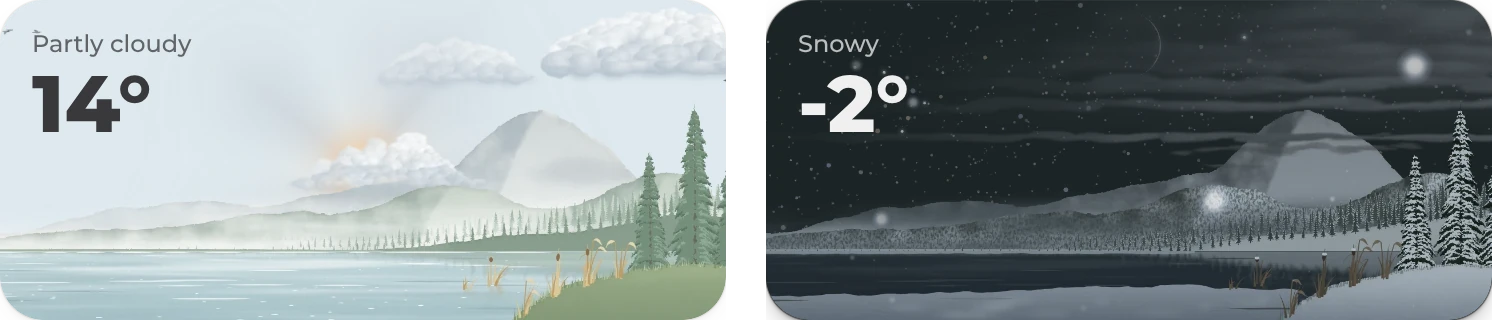
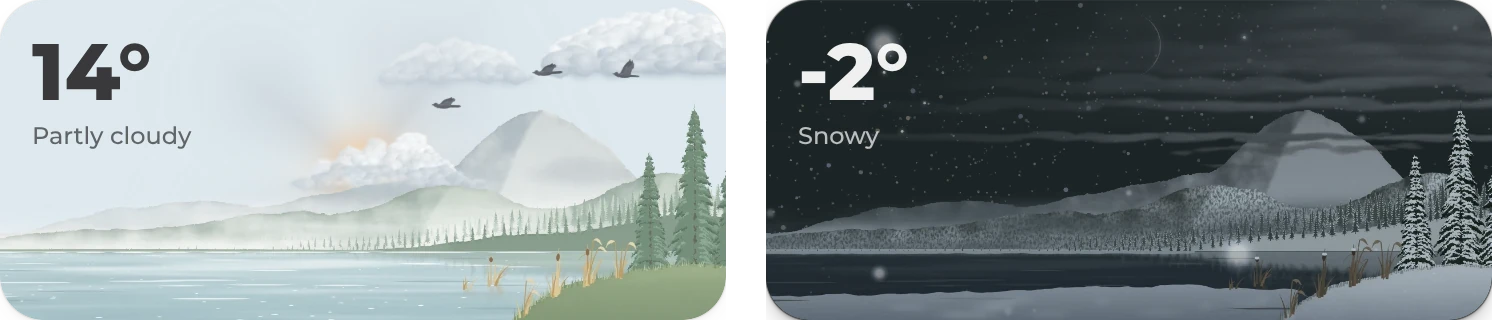
Temperature first again in Diorama, a roomier top and six fixed days in Classic, and a lighter temperature in Home

diff --git a/src/layout-presets.js b/src/layout-presets.js
@@ -42,16 +42,16 @@ const DIORAMA_CONFIG = Object.freeze({
             name: 'Now',
             buttons: [
                 {
-                    name: 'Condition and temperature',
+                    name: 'Temperature and condition',
                     entity: PRESET_ENTITY_TOKEN,
                     attribute: 'temperature',
                     style: 'vertical',
                     align: 'start',
-                    inner_gap: '4px',
+                    inner_gap: '6px',
                     background: false,
                     elements: [
-                        text({ entity: PRESET_ENTITY_TOKEN, size: '12px', weight: '500', overflow: 'wrap' }),
-                        text({ size: '40px', weight: '800', precision: 0, format: '\u00b0' })
+                        text({ size: '40px', weight: '800', precision: 0, format: '\u00b0' }),
+                        text({ entity: PRESET_ENTITY_TOKEN, size: '12px', weight: '500', overflow: 'wrap' })
                     ]
                 }
             ]
@@ -106,7 +106,7 @@ const CLASSIC_CONFIG = Object.freeze({
     color_mode: 'dark',
     sun_size: 56,
     moon_size: 56,
-    sun_moon_y: '110px 34px',
+    sun_moon_y: '111px 34px',
     cloud_effects: false,
     mist_effects: true,
     bird_effects: false,
@@ -132,7 +132,7 @@ const CLASSIC_CONFIG = Object.freeze({
         {
             name: 'Today',
             gap: '12px',
-            padding: '0 4px',
+            padding: '4px 8px 0',
             buttons: [
                 {
                     name: 'Day',
@@ -144,7 +144,7 @@ const CLASSIC_CONFIG = Object.freeze({
                     background: false,
                     elements: [
                         text({ attribute: 'datetime', format: '%A', size: '20px', weight: '600', color: WHITE }),
-                        text({ attribute: 'datetime', format: '%-d %B', size: '14px', weight: '500', color: WHITE_72 })
+                        text({ attribute: 'datetime', format: '%-d. %B', size: '14px', weight: '500', color: WHITE_72 })
                     ]
                 },
                 {
@@ -161,7 +161,7 @@ const CLASSIC_CONFIG = Object.freeze({
         {
             name: 'Now',
             custom_width: 'auto',
-            padding: '0 4px 2.5px',
+            padding: '4px 8px 2.5px',
             buttons: [
                 {
                     name: 'Temperature and condition',
@@ -181,11 +181,8 @@ const CLASSIC_CONFIG = Object.freeze({
         {
             name: 'Forecast',
             custom_width: '100%',
-            layout: 'horizontal-scroll',
-            scroll_count: 6,
-            scroll_fade: true,
-            scroll_fade_size: '40px',
-            justify_content: 'center',
+            layout: 'grid',
+            columns: 6,
             margin: '20px 0 0',
             padding: '4px',
             gap: '0',
@@ -198,7 +195,7 @@ const CLASSIC_CONFIG = Object.freeze({
             button_gap: '5px',
             button_padding: '14px 0',
             align: 'center',
-            buttons: [1, 2, 3, 4, 5, 6, 7, 8, 9, 10].map(classicDay)
+            buttons: [1, 2, 3, 4, 5, 6].map(classicDay)
         }
     ],
     grid_options: {
@@ -449,7 +446,7 @@ const HOME_CONFIG = Object.freeze({
                     entity: PRESET_ENTITY_TOKEN,
                     attribute: 'temperature',
                     style: 'split',
-                    elements: [homeTemp('clamp(40px, 17cqw, 52px)', '800'), homeLabel({ entity: PRESET_ENTITY_TOKEN, overflow: 'wrap' })]
+                    elements: [homeTemp('clamp(40px, 17cqw, 52px)', '700'), homeLabel({ entity: PRESET_ENTITY_TOKEN, overflow: 'wrap' })]
                 },
                 room('Living'),
                 room('Office'),

diff --git a/dist/chunk-G774F73X.js b/dist/chunk-G774F73X.js
@@ -40,16 +40,16 @@ var DIORAMA_CONFIG = Object.freeze({
       name: "Now",
       buttons: [
         {
-          name: "Condition and temperature",
+          name: "Temperature and condition",
           entity: PRESET_ENTITY_TOKEN,
           attribute: "temperature",
           style: "vertical",
           align: "start",
-          inner_gap: "4px",
+          inner_gap: "6px",
           background: false,
           elements: [
-            text({ entity: PRESET_ENTITY_TOKEN, size: "12px", weight: "500", overflow: "wrap" }),
-            text({ size: "40px", weight: "800", precision: 0, format: "\xB0" })
+            text({ size: "40px", weight: "800", precision: 0, format: "\xB0" }),
+            text({ entity: PRESET_ENTITY_TOKEN, size: "12px", weight: "500", overflow: "wrap" })
           ]
         }
       ]
@@ -99,7 +99,7 @@ var CLASSIC_CONFIG = Object.freeze({
   color_mode: "dark",
   sun_size: 56,
   moon_size: 56,
-  sun_moon_y: "110px 34px",
+  sun_moon_y: "111px 34px",
   cloud_effects: false,
   mist_effects: true,
   bird_effects: false,
@@ -125,7 +125,7 @@ var CLASSIC_CONFIG = Object.freeze({
     {
       name: "Today",
       gap: "12px",
-      padding: "0 4px",
+      padding: "4px 8px 0",
       buttons: [
         {
           name: "Day",
@@ -137,7 +137,7 @@ var CLASSIC_CONFIG = Object.freeze({
           background: false,
           elements: [
             text({ attribute: "datetime", format: "%A", size: "20px", weight: "600", color: WHITE }),
-            text({ attribute: "datetime", format: "%-d %B", size: "14px", weight: "500", color: WHITE_72 })
+            text({ attribute: "datetime", format: "%-d. %B", size: "14px", weight: "500", color: WHITE_72 })
           ]
         },
         {
@@ -154,7 +154,7 @@ var CLASSIC_CONFIG = Object.freeze({
     {
       name: "Now",
       custom_width: "auto",
-      padding: "0 4px 2.5px",
+      padding: "4px 8px 2.5px",
       buttons: [
         {
           name: "Temperature and condition",
@@ -174,11 +174,8 @@ var CLASSIC_CONFIG = Object.freeze({
     {
       name: "Forecast",
       custom_width: "100%",
-      layout: "horizontal-scroll",
-      scroll_count: 6,
-      scroll_fade: true,
-      scroll_fade_size: "40px",
-      justify_content: "center",
+      layout: "grid",
+      columns: 6,
       margin: "20px 0 0",
       padding: "4px",
       gap: "0",
@@ -191,7 +188,7 @@ var CLASSIC_CONFIG = Object.freeze({
       button_gap: "5px",
       button_padding: "14px 0",
       align: "center",
-      buttons: [1, 2, 3, 4, 5, 6, 7, 8, 9, 10].map(classicDay)
+      buttons: [1, 2, 3, 4, 5, 6].map(classicDay)
     }
   ],
   grid_options: {
@@ -428,7 +425,7 @@ var HOME_CONFIG = Object.freeze({
           entity: PRESET_ENTITY_TOKEN,
           attribute: "temperature",
           style: "split",
-          elements: [homeTemp("clamp(40px, 17cqw, 52px)", "800"), homeLabel({ entity: PRESET_ENTITY_TOKEN, overflow: "wrap" })]
+          elements: [homeTemp("clamp(40px, 17cqw, 52px)", "700"), homeLabel({ entity: PRESET_ENTITY_TOKEN, overflow: "wrap" })]
         },
         room("Living"),
         room("Office"),

diff --git a/dist/origami-weather.js b/dist/origami-weather.js
@@ -2281,12 +2281,12 @@ var WeatherCard = class _WeatherCard extends HTMLElement {
   }
   static async getConfigElement() {
     if (!customElements.get("origami-weather-editor")) {
-      await import("./origami-weather-editor-D7B6ORJP.js");
+      await import("./origami-weather-editor-OF455VB4.js");
     }
     return document.createElement("origami-weather-editor");
   }
   static async getStubConfig(hass) {
-    const { buildStubConfig } = await import("./layout-presets-CXMT73OJ.js");
+    const { buildStubConfig } = await import("./layout-presets-W6PC65QI.js");
     return buildStubConfig(hass);
   }
   static _migrateConfig(config) {

diff --git a/dist/layout-presets-W6PC65QI.js b/dist/layout-presets-W6PC65QI.js
@@ -4,7 +4,7 @@ import {
   buildStubConfig,
   instantiatePreset,
   rebindPresetEntities
-} from "./chunk-XLYKOXRU.js";
+} from "./chunk-G774F73X.js";
 export {
   LAYOUT_PRESETS,
   PRESET_ENTITY_TOKEN,

diff --git a/dist/origami-weather-editor-OF455VB4.js b/dist/origami-weather-editor-OF455VB4.js
@@ -1,7 +1,7 @@
 import {
   LAYOUT_PRESETS,
   instantiatePreset
-} from "./chunk-XLYKOXRU.js";
+} from "./chunk-G774F73X.js";
 
 // node_modules/@lit/reactive-element/css-tag.js
 /**

diff --git a/README.md b/README.md
@@ -54,13 +54,13 @@ Without HACS, copy everything in `dist` from the [latest release](https://github
 
 <img width="800" alt="The Diorama layout, a paper landscape for each kind of weather, by day and by night, in light and dark mode" src="https://raw.githubusercontent.com/hazymorning/origami_weather/main/images/diorama.webp">
 
-A little paper landscape for each kind of weather, made for the [Origami](https://github.com/hazymorning/origami) dashboard, with the current weather and the temperature in a corner of the sky. The sun and the moon cross the sky and set behind the hills.
+A little paper landscape for each kind of weather, made for the [Origami](https://github.com/hazymorning/origami) dashboard, with the temperature and the current weather in a corner of the sky. The sun and the moon cross the sky and set behind the hills.
 
 ### Classic
 
 <img width="800" alt="The Classic layout, the temperature on a color that changes with the weather, with a forecast for the coming days, by day and by night" src="https://raw.githubusercontent.com/hazymorning/origami_weather/main/images/classic.webp">
 
-The temperature and the current weather on a color that changes with the weather, with the day, today's high and low and the humidity beside them and the sun or the moon in between. A forecast slides through the coming days, with the chance of rain under each day.
+The temperature and the current weather on a color that changes with the weather, with the day, today's high and low and the humidity beside them and the sun or the moon in between. Below them are the next six days, with the chance of rain under each day.
 
 ### Panel
 
